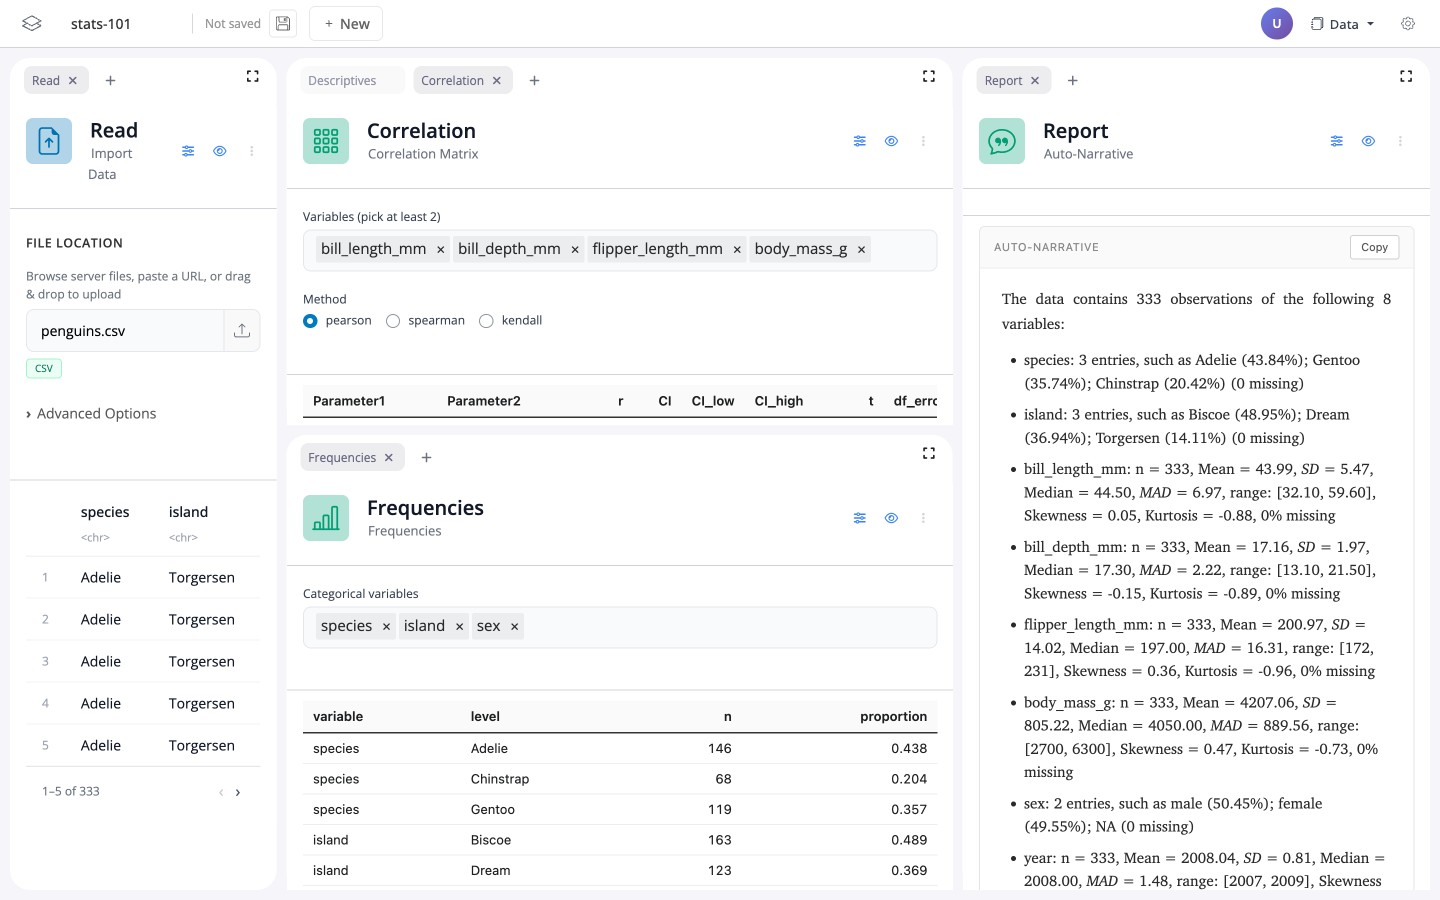
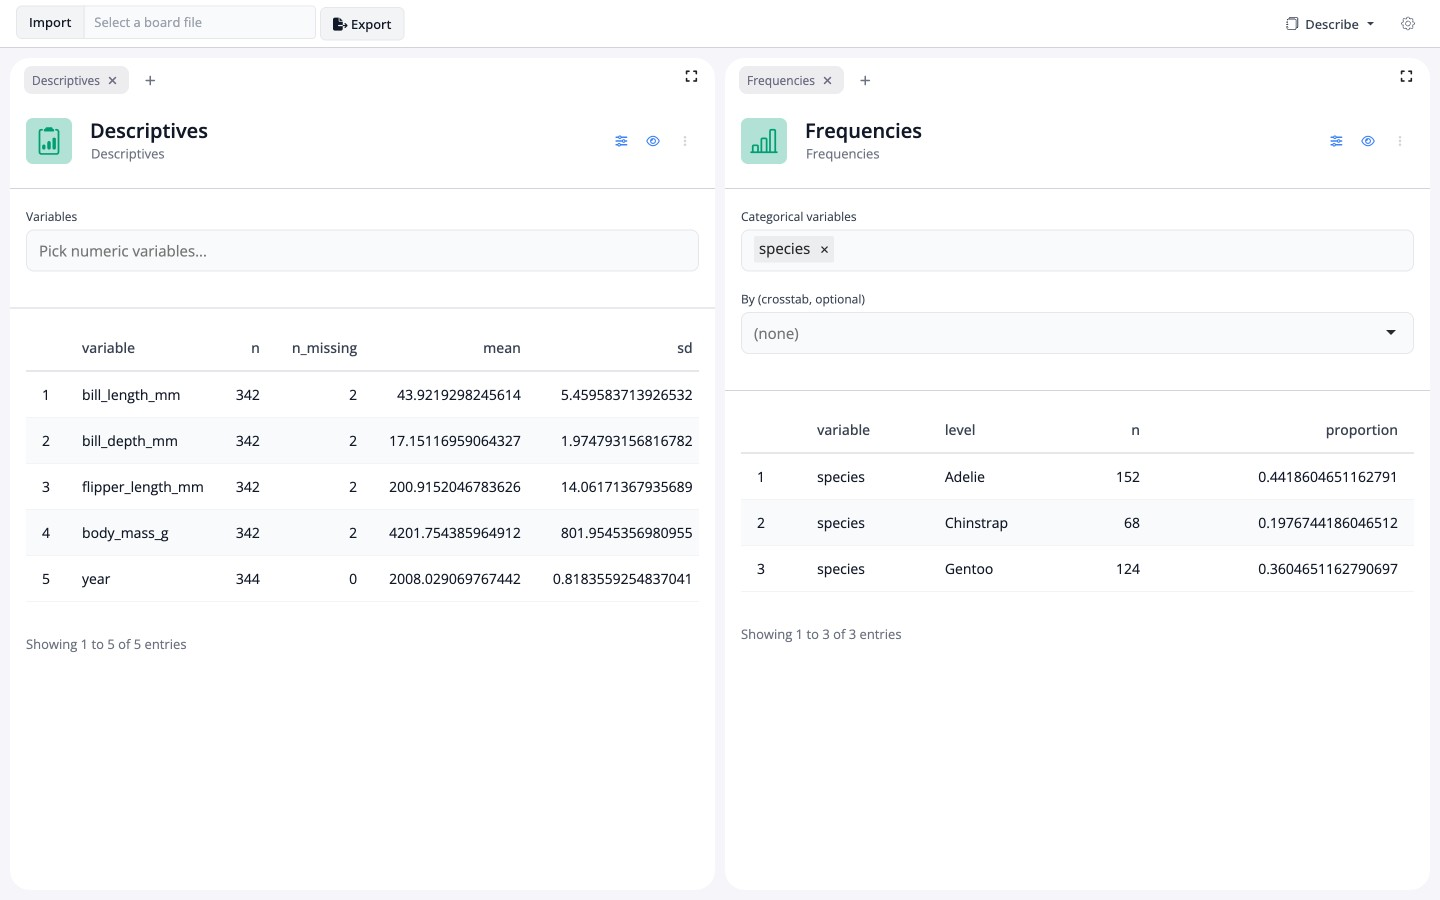
examples: swap Reinsurance Dashboard for Treaty Pricer; refresh stats-101 shot
- Reinsurance + Pareto demos retired from blockr.cloud; replace the
  Reinsurance Dashboard example with Treaty Pricer (the kept demo).
- stats-101 now opens on a Setup view; recapture its Describe view so
  the card shows descriptives + frequencies, not the old layout.

diff --git a/examples/index.md b/examples/index.md
@@ -60,11 +60,11 @@ Curated demo workflows running on [blockr.cloud](https://blockr.cloud). Open any
 <span class="example-link">Open in Playground →</span>
 </div>
 </a>
-<a class="example-card" href="https://blockr.cloud/app/reinsurance" target="_blank">
-<img src="/examples/reinsurance.jpg" alt="Reinsurance Dashboard" />
+<a class="example-card" href="https://blockr.cloud/app/treaty-pricer" target="_blank">
+<img src="/examples/treaty-pricer.jpg" alt="Treaty Pricer" />
 <div class="example-body">
-<p class="example-title">Reinsurance Dashboard</p>
-<p>Reinsurance portfolio analytics with scenario / peril / region crossfilter, premium and exposure KPIs, and cedant / peril drill-downs over a synthetic exposure and event-loss cube.</p>
+<p class="example-title">Treaty Pricer</p>
+<p>Layered excess-of-loss treaty pricer: an editable treaty tower drives a piecewise-Pareto severity fit, loss simulation, and a per-layer premium build-up. Edit a layer and the KPIs, quote chart, and build-up waterfall all recompute.</p>
 <span class="example-link">Open in Playground →</span>
 </div>
 </a>